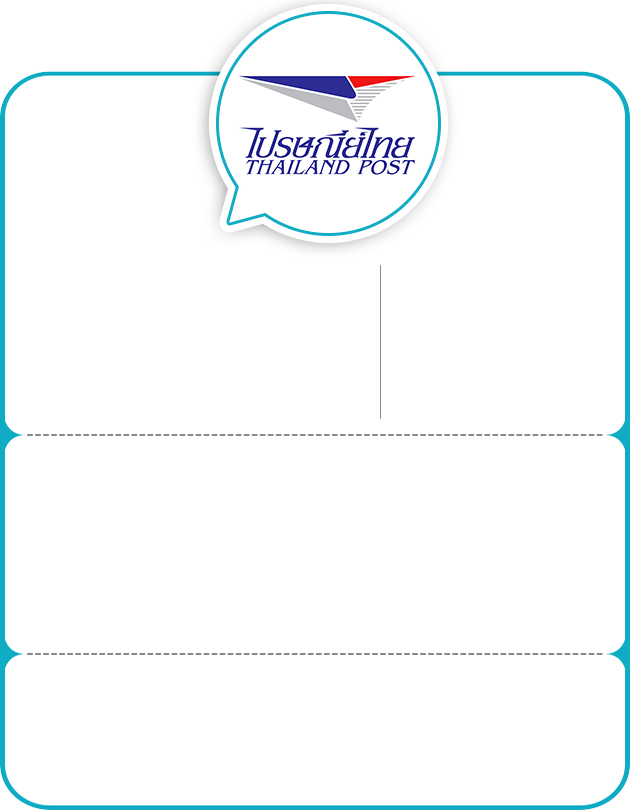
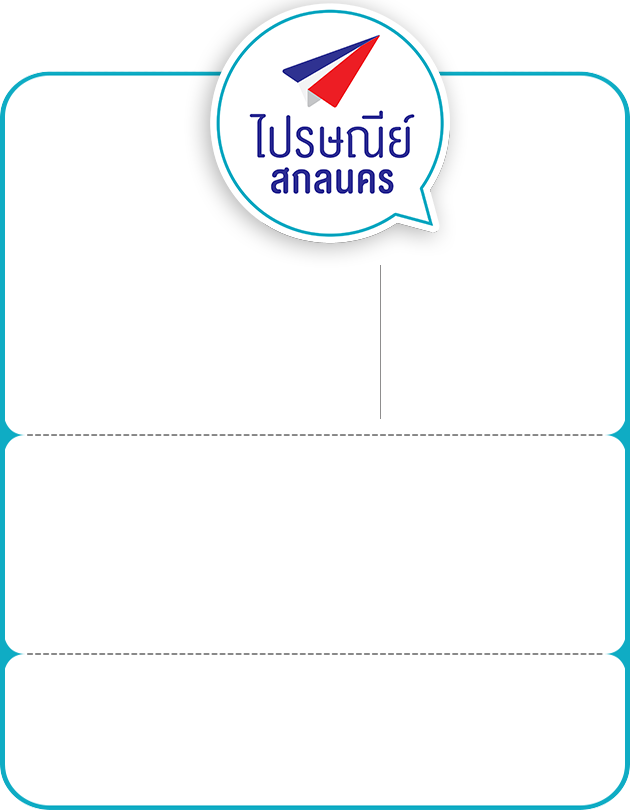
New IMP

diff --git a/MasterQ/View/MemberAppView/LoginPage.xaml b/MasterQ/View/MemberAppView/LoginPage.xaml
@@ -50,7 +50,7 @@
             </StackLayout>
         </StackLayout>-->
 
-        <Image Grid.Row="2" Source="logo.png" VerticalOptions="Center" HorizontalOptions="Center" HeightRequest="300" />
+        <Image Grid.Row="2" Source="logoMasterQPost2.png" VerticalOptions="Center" HorizontalOptions="Center" HeightRequest="300" />
         
         <StackLayout Grid.Row="4" VerticalOptions="FillAndExpand" HorizontalOptions="Fill">
             <StackLayout Orientation="Horizontal" HorizontalOptions="Center" VerticalOptions="Center">

diff --git a/MasterQ/View/MemberAppView/RatingPage.xaml b/MasterQ/View/MemberAppView/RatingPage.xaml
@@ -74,7 +74,7 @@
         Grid.Row="1" 
         Grid.Column="0" 
         Grid.ColumnSpan="6" 
-        Source="ThailandPostLogo.png" 
+        Source="logoMasterQPost2.png" 
         VerticalOptions="Center" 
         HeightRequest="250">
         </Image>

diff --git a/Droid/Resources/Resource.designer.cs b/Droid/Resources/Resource.designer.cs
@@ -2330,26 +2330,26 @@ namespace MasterQ.Droid
 			// aapt resource value: 0x7f020053
 			public const int avd_hide_password = 2130837587;
 			
-			// aapt resource value: 0x7f020188
-			public const int avd_hide_password_1 = 2130837896;
-			
 			// aapt resource value: 0x7f020189
-			public const int avd_hide_password_2 = 2130837897;
+			public const int avd_hide_password_1 = 2130837897;
 			
 			// aapt resource value: 0x7f02018a
-			public const int avd_hide_password_3 = 2130837898;
+			public const int avd_hide_password_2 = 2130837898;
+			
+			// aapt resource value: 0x7f02018b
+			public const int avd_hide_password_3 = 2130837899;
 			
 			// aapt resource value: 0x7f020054
 			public const int avd_show_password = 2130837588;
 			
-			// aapt resource value: 0x7f02018b
-			public const int avd_show_password_1 = 2130837899;
-			
 			// aapt resource value: 0x7f02018c
-			public const int avd_show_password_2 = 2130837900;
+			public const int avd_show_password_1 = 2130837900;
 			
 			// aapt resource value: 0x7f02018d
-			public const int avd_show_password_3 = 2130837901;
+			public const int avd_show_password_2 = 2130837901;
+			
+			// aapt resource value: 0x7f02018e
+			public const int avd_show_password_3 = 2130837902;
 			
 			// aapt resource value: 0x7f020055
 			public const int bg = 2130837589;
@@ -3096,181 +3096,184 @@ namespace MasterQ.Droid
 			public const int logo = 2130837836;
 			
 			// aapt resource value: 0x7f02014d
-			public const int LogoStart = 2130837837;
+			public const int logoMasterQPost2 = 2130837837;
 			
 			// aapt resource value: 0x7f02014e
-			public const int MainP1 = 2130837838;
+			public const int LogoStart = 2130837838;
 			
 			// aapt resource value: 0x7f02014f
-			public const int MainP2 = 2130837839;
+			public const int MainP1 = 2130837839;
 			
 			// aapt resource value: 0x7f020150
-			public const int MainP3 = 2130837840;
+			public const int MainP2 = 2130837840;
 			
 			// aapt resource value: 0x7f020151
-			public const int man = 2130837841;
+			public const int MainP3 = 2130837841;
 			
 			// aapt resource value: 0x7f020152
-			public const int manWithBubble_Q = 2130837842;
+			public const int man = 2130837842;
 			
 			// aapt resource value: 0x7f020153
-			public const int mr_button_connected_dark = 2130837843;
+			public const int manWithBubble_Q = 2130837843;
 			
 			// aapt resource value: 0x7f020154
-			public const int mr_button_connected_light = 2130837844;
+			public const int mr_button_connected_dark = 2130837844;
 			
 			// aapt resource value: 0x7f020155
-			public const int mr_button_connecting_dark = 2130837845;
+			public const int mr_button_connected_light = 2130837845;
 			
 			// aapt resource value: 0x7f020156
-			public const int mr_button_connecting_light = 2130837846;
+			public const int mr_button_connecting_dark = 2130837846;
 			
 			// aapt resource value: 0x7f020157
-			public const int mr_button_dark = 2130837847;
+			public const int mr_button_connecting_light = 2130837847;
 			
 			// aapt resource value: 0x7f020158
-			public const int mr_button_light = 2130837848;
+			public const int mr_button_dark = 2130837848;
 			
 			// aapt resource value: 0x7f020159
-			public const int mr_dialog_close_dark = 2130837849;
+			public const int mr_button_light = 2130837849;
 			
 			// aapt resource value: 0x7f02015a
-			public const int mr_dialog_close_light = 2130837850;
+			public const int mr_dialog_close_dark = 2130837850;
 			
 			// aapt resource value: 0x7f02015b
-			public const int mr_dialog_material_background_dark = 2130837851;
+			public const int mr_dialog_close_light = 2130837851;
 			
 			// aapt resource value: 0x7f02015c
-			public const int mr_dialog_material_background_light = 2130837852;
+			public const int mr_dialog_material_background_dark = 2130837852;
 			
 			// aapt resource value: 0x7f02015d
-			public const int mr_group_collapse = 2130837853;
+			public const int mr_dialog_material_background_light = 2130837853;
 			
 			// aapt resource value: 0x7f02015e
-			public const int mr_group_expand = 2130837854;
+			public const int mr_group_collapse = 2130837854;
 			
 			// aapt resource value: 0x7f02015f
-			public const int mr_media_pause_dark = 2130837855;
+			public const int mr_group_expand = 2130837855;
 			
 			// aapt resource value: 0x7f020160
-			public const int mr_media_pause_light = 2130837856;
+			public const int mr_media_pause_dark = 2130837856;
 			
 			// aapt resource value: 0x7f020161
-			public const int mr_media_play_dark = 2130837857;
+			public const int mr_media_pause_light = 2130837857;
 			
 			// aapt resource value: 0x7f020162
-			public const int mr_media_play_light = 2130837858;
+			public const int mr_media_play_dark = 2130837858;
 			
 			// aapt resource value: 0x7f020163
-			public const int mr_media_stop_dark = 2130837859;
+			public const int mr_media_play_light = 2130837859;
 			
 			// aapt resource value: 0x7f020164
-			public const int mr_media_stop_light = 2130837860;
+			public const int mr_media_stop_dark = 2130837860;
 			
 			// aapt resource value: 0x7f020165
-			public const int mr_vol_type_audiotrack_dark = 2130837861;
+			public const int mr_media_stop_light = 2130837861;
 			
 			// aapt resource value: 0x7f020166
-			public const int mr_vol_type_audiotrack_light = 2130837862;
+			public const int mr_vol_type_audiotrack_dark = 2130837862;
 			
 			// aapt resource value: 0x7f020167
-			public const int navigation_empty_icon = 2130837863;
+			public const int mr_vol_type_audiotrack_light = 2130837863;
 			
 			// aapt resource value: 0x7f020168
-			public const int NextQ1 = 2130837864;
+			public const int navigation_empty_icon = 2130837864;
 			
 			// aapt resource value: 0x7f020169
-			public const int NextQ2 = 2130837865;
+			public const int NextQ1 = 2130837865;
 			
 			// aapt resource value: 0x7f02016a
-			public const int notification_action_background = 2130837866;
+			public const int NextQ2 = 2130837866;
 			
 			// aapt resource value: 0x7f02016b
-			public const int notification_bg = 2130837867;
+			public const int notification_action_background = 2130837867;
 			
 			// aapt resource value: 0x7f02016c
-			public const int notification_bg_low = 2130837868;
+			public const int notification_bg = 2130837868;
 			
 			// aapt resource value: 0x7f02016d
-			public const int notification_bg_low_normal = 2130837869;
+			public const int notification_bg_low = 2130837869;
 			
 			// aapt resource value: 0x7f02016e
-			public const int notification_bg_low_pressed = 2130837870;
+			public const int notification_bg_low_normal = 2130837870;
 			
 			// aapt resource value: 0x7f02016f
-			public const int notification_bg_normal = 2130837871;
+			public const int notification_bg_low_pressed = 2130837871;
 			
 			// aapt resource value: 0x7f020170
-			public const int notification_bg_normal_pressed = 2130837872;
+			public const int notification_bg_normal = 2130837872;
 			
 			// aapt resource value: 0x7f020171
-			public const int notification_icon_background = 2130837873;
-			
-			// aapt resource value: 0x7f020186
-			public const int notification_template_icon_bg = 2130837894;
-			
-			// aapt resource value: 0x7f020187
-			public const int notification_template_icon_low_bg = 2130837895;
+			public const int notification_bg_normal_pressed = 2130837873;
 			
 			// aapt resource value: 0x7f020172
-			public const int notification_tile_bg = 2130837874;
+			public const int notification_icon_background = 2130837874;
+			
+			// aapt resource value: 0x7f020187
+			public const int notification_template_icon_bg = 2130837895;
+			
+			// aapt resource value: 0x7f020188
+			public const int notification_template_icon_low_bg = 2130837896;
 			
 			// aapt resource value: 0x7f020173
-			public const int notify_panel_notification_icon_bg = 2130837875;
+			public const int notification_tile_bg = 2130837875;
 			
 			// aapt resource value: 0x7f020174
-			public const int password_icon = 2130837876;
+			public const int notify_panel_notification_icon_bg = 2130837876;
 			
 			// aapt resource value: 0x7f020175
-			public const int picup = 2130837877;
+			public const int password_icon = 2130837877;
 			
 			// aapt resource value: 0x7f020176
-			public const int Qcircle = 2130837878;
+			public const int picup = 2130837878;
 			
 			// aapt resource value: 0x7f020177
-			public const int Qcircle2 = 2130837879;
+			public const int Qcircle = 2130837879;
 			
 			// aapt resource value: 0x7f020178
-			public const int QcircleAccept = 2130837880;
+			public const int Qcircle2 = 2130837880;
 			
 			// aapt resource value: 0x7f020179
-			public const int QcircleCall = 2130837881;
+			public const int QcircleAccept = 2130837881;
 			
 			// aapt resource value: 0x7f02017a
-			public const int QcircleFinish = 2130837882;
+			public const int QcircleCall = 2130837882;
 			
 			// aapt resource value: 0x7f02017b
-			public const int QcircleSkip = 2130837883;
+			public const int QcircleFinish = 2130837883;
 			
 			// aapt resource value: 0x7f02017c
-			public const int splash_logo = 2130837884;
+			public const int QcircleSkip = 2130837884;
 			
 			// aapt resource value: 0x7f02017d
-			public const int splash_screen = 2130837885;
+			public const int splash_logo = 2130837885;
 			
 			// aapt resource value: 0x7f02017e
-			public const int thailand = 2130837886;
+			public const int splash_screen = 2130837886;
 			
 			// aapt resource value: 0x7f02017f
-			public const int ThailandPostLogo = 2130837887;
+			public const int thailand = 2130837887;
 			
 			// aapt resource value: 0x7f020180
-			public const int ticket = 2130837888;
+			public const int ThailandPostLogo = 2130837888;
 			
 			// aapt resource value: 0x7f020181
-			public const int ticket2 = 2130837889;
+			public const int ticket = 2130837889;
 			
 			// aapt resource value: 0x7f020182
-			public const int ticket4 = 2130837890;
+			public const int ticket2 = 2130837890;
 			
 			// aapt resource value: 0x7f020183
-			public const int unitedkingdom = 2130837891;
+			public const int ticket4 = 2130837891;
 			
 			// aapt resource value: 0x7f020184
-			public const int user = 2130837892;
+			public const int unitedkingdom = 2130837892;
 			
 			// aapt resource value: 0x7f020185
-			public const int username_icon = 2130837893;
+			public const int user = 2130837893;
+			
+			// aapt resource value: 0x7f020186
+			public const int username_icon = 2130837894;
 			
 			static Drawable()
 			{
